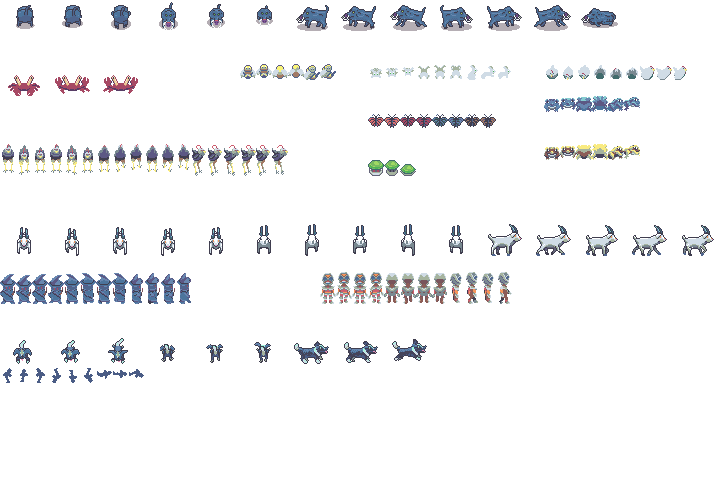
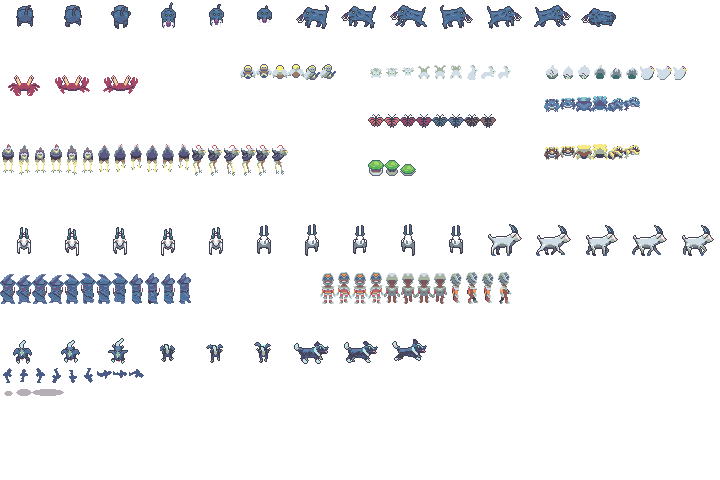
working on adding shadows to entities

diff --git a/EntityEngine/Classes/NPCStuff/NPC.cs b/EntityEngine/Classes/NPCStuff/NPC.cs
@@ -10,6 +10,7 @@ using PhysicsEngine.Classes.Pathfinding;
 using SpriteEngine.Classes;
 using SpriteEngine.Classes.Animations;
 using SpriteEngine.Classes.Animations.EntityAnimations;
+using SpriteEngine.Classes.ShadowStuff;
 using System;
 using System.Collections.Generic;
 using System.IO;
@@ -17,7 +18,7 @@ using System.Linq;
 using System.Text;
 using System.Threading.Tasks;
 using TiledEngine.Classes;
-
+using static DataModels.Enums;
 
 namespace EntityEngine.Classes.NPCStuff
 {
@@ -25,6 +26,7 @@ namespace EntityEngine.Classes.NPCStuff
     {
         protected NPCData NPCData;
 
+        public Shadow Shadow { get; set; }
 
         public NPC( GraphicsDevice graphics, ContentManager content) :
             base(graphics, content)
@@ -40,7 +42,10 @@ namespace EntityEngine.Classes.NPCStuff
                 NPCData = EntityFactory.NPCData[name];
                 Name = NPCData.Name;
                 ScheduleName = NPCData.ScheduleName;
-
+                if(NPCData.ShadowSize > Enums.ShadowSize.None)
+                {
+                    Shadow = new Shadow(ShadowType.NPC,CenteredPosition, NPCData.ShadowSize, EntityFactory.NPCSheet);
+                }
                 if (standardAnimator)
                 {
                     List<AnimatedSprite> sprites = new List<AnimatedSprite>();
@@ -79,7 +84,20 @@ namespace EntityEngine.Classes.NPCStuff
             
         }
 
+        public override void Update(GameTime gameTime)
+        {
+            base.Update(gameTime);
+            if (!Submerged && Shadow != null)
+                Shadow.Update(gameTime, new Vector2(CenteredPosition.X, CenteredPosition.Y + 2));
+        }
 
+        public override void Draw(SpriteBatch spriteBatch)
+        {
+            base.Draw(spriteBatch);
+            if (!Submerged &&  Shadow != null)
+                Shadow.Draw(spriteBatch);
+
+        }
         protected override void DrawAnimator(SpriteBatch spriteBatch)
         {
             Animator.Draw(spriteBatch, Submerged && !NPCData.AlwaysSubmerged);

diff --git a/SpriteEngine/Classes/ShadowStuff/Shadow.cs b/SpriteEngine/Classes/ShadowStuff/Shadow.cs
@@ -5,24 +5,44 @@ using System.Collections.Generic;
 using System.Linq;
 using System.Text;
 using System.Threading.Tasks;
+using static DataModels.Enums;
 
 namespace SpriteEngine.Classes.ShadowStuff
 {
-    public enum ShadowSize
+   
+    public enum ShadowType
     {
         None =0,
-        Small = 1,
-        Medium = 2
+        Item = 1,
+        NPC = 2
     }
     public class Shadow
     {
-        private static Rectangle s_smallRectangle = new Rectangle(32, 48, 16, 16);
+        private static Rectangle s_itemSmallRectangle = new Rectangle(32, 48, 16, 16);
+
+        private static Rectangle s_npcSmallRectangle = new Rectangle(0, 384, 16, 16);
+        private static Rectangle s_npcMediumRectangle = new Rectangle(16, 384, 16, 16);
+
+
 
         public Sprite Sprite { get; set; }
         
-        public Shadow(Vector2 position, ShadowSize shadowSize, Texture2D texture)
+        public Shadow(ShadowType shadowType, Vector2 position, ShadowSize shadowSize, Texture2D texture)
         {
-            Sprite = SpriteFactory.CreateWorldSprite(position, s_smallRectangle, texture);
+            Rectangle rectangleToUse = s_itemSmallRectangle;
+            switch (shadowType)
+            {
+                case ShadowType.None:
+                    throw new Exception("$Must provide shadowtype");
+                case ShadowType.Item:
+                    rectangleToUse = s_itemSmallRectangle;
+                    break;
+                case ShadowType.NPC:
+                    rectangleToUse = s_npcSmallRectangle;
+
+                    break;
+            }
+            Sprite = SpriteFactory.CreateWorldSprite(position, rectangleToUse, texture);
         }
         public void Update(GameTime gameTime, Vector2 position)
         {

diff --git a/EntityEngine/Classes/ItemStuff/WorldItem.cs b/EntityEngine/Classes/ItemStuff/WorldItem.cs
@@ -17,6 +17,7 @@ using System.Threading.Tasks;
 using tainicom.Aether.Physics2D.Dynamics;
 using tainicom.Aether.Physics2D.Dynamics.Contacts;
 using TiledEngine.Classes;
+using static DataModels.Enums;
 using static Globals.Classes.Settings;
 
 namespace EntityEngine.ItemStuff
@@ -102,13 +103,13 @@ namespace EntityEngine.ItemStuff
                 case WorldItemState.None:
                     ItemBehaviour = null;
                     Sprite.SwapSourceRectangle(new Rectangle(Sprite.SourceRectangle.X, Sprite.SourceRectangle.Y, 16, 16));
-                    Shadow = new Shadow(CenteredPosition, ShadowSize.Small, ItemFactory.ItemSpriteSheet);
+                    Shadow = new Shadow(ShadowType.Item, CenteredPosition, ShadowSize.Small, ItemFactory.ItemSpriteSheet);
                     Sprite.CustomLayer = null;
                     break;
                 case WorldItemState.Bouncing:
                     ItemBehaviour = new BouncingItemBehaviour(this, jettisonDirection);
                     Sprite.CustomLayer = Sprite.GetYAxisLayerDepth();
-                    Shadow = new Shadow(CenteredPosition, ShadowSize.Small, ItemFactory.ItemSpriteSheet);
+                    Shadow = new Shadow(ShadowType.Item, CenteredPosition, ShadowSize.Small, ItemFactory.ItemSpriteSheet);
 
 
                     break;

diff --git a/DataModels/NPCData.cs b/DataModels/NPCData.cs
@@ -1,6 +1,7 @@
 using System;
 using System.Collections.Generic;
 using System.Text;
+using static DataModels.Enums;
 
 namespace DataModels
 {
@@ -17,6 +18,7 @@ namespace DataModels
         //Divided by 10 to get float value in MobSpawner.cs
         public byte SpawnSlotValue { get; set; }
 
+        public ShadowSize ShadowSize { get; set; }
         public string Name { get; set; }
         public string ObjectType { get; set; }
         public string ScheduleName { get; set; }

diff --git a/SpriteEngine/Classes/Animations/BodyPartStuff/Pants.cs b/SpriteEngine/Classes/Animations/BodyPartStuff/Pants.cs
@@ -41,7 +41,7 @@ namespace SpriteEngine.Classes.Animations.BodyPartStuff
 
             AnimationFrame[] walkDownFrames = new AnimationFrame[]
             {
-               new AnimationFrame(3, 0, -1, WalkDownAnimationDuration),
+               new AnimationFrame(3, 0, 0, WalkDownAnimationDuration),
 
               new AnimationFrame(4, 0, 0, WalkDownAnimationDuration),
                 new AnimationFrame(5, 0, 0, WalkDownAnimationDuration),

diff --git a/SpriteEngine/Classes/Animations/BodyPartStuff/Shoes.cs b/SpriteEngine/Classes/Animations/BodyPartStuff/Shoes.cs
@@ -46,7 +46,7 @@ namespace SpriteEngine.Classes.Animations.BodyPartStuff
 
             AnimationFrame[] walkDownFrames = new AnimationFrame[]
            {
-               new AnimationFrame(3, 0, 1, WalkDownAnimationDuration),
+               new AnimationFrame(3, 0, 0, WalkDownAnimationDuration),
 
               new AnimationFrame(4, 0, 1, WalkDownAnimationDuration),
                 new AnimationFrame(5, 0, 2, WalkDownAnimationDuration),

diff --git a/DataModels/Enums.cs b/DataModels/Enums.cs
@@ -45,5 +45,13 @@ namespace DataModels
             Pants = 2
         }
 
+        public enum ShadowSize
+        {
+            None = 0,
+            Small = 1,
+            Medium = 2,
+            Large = 3
+        }
+
     }
 }
